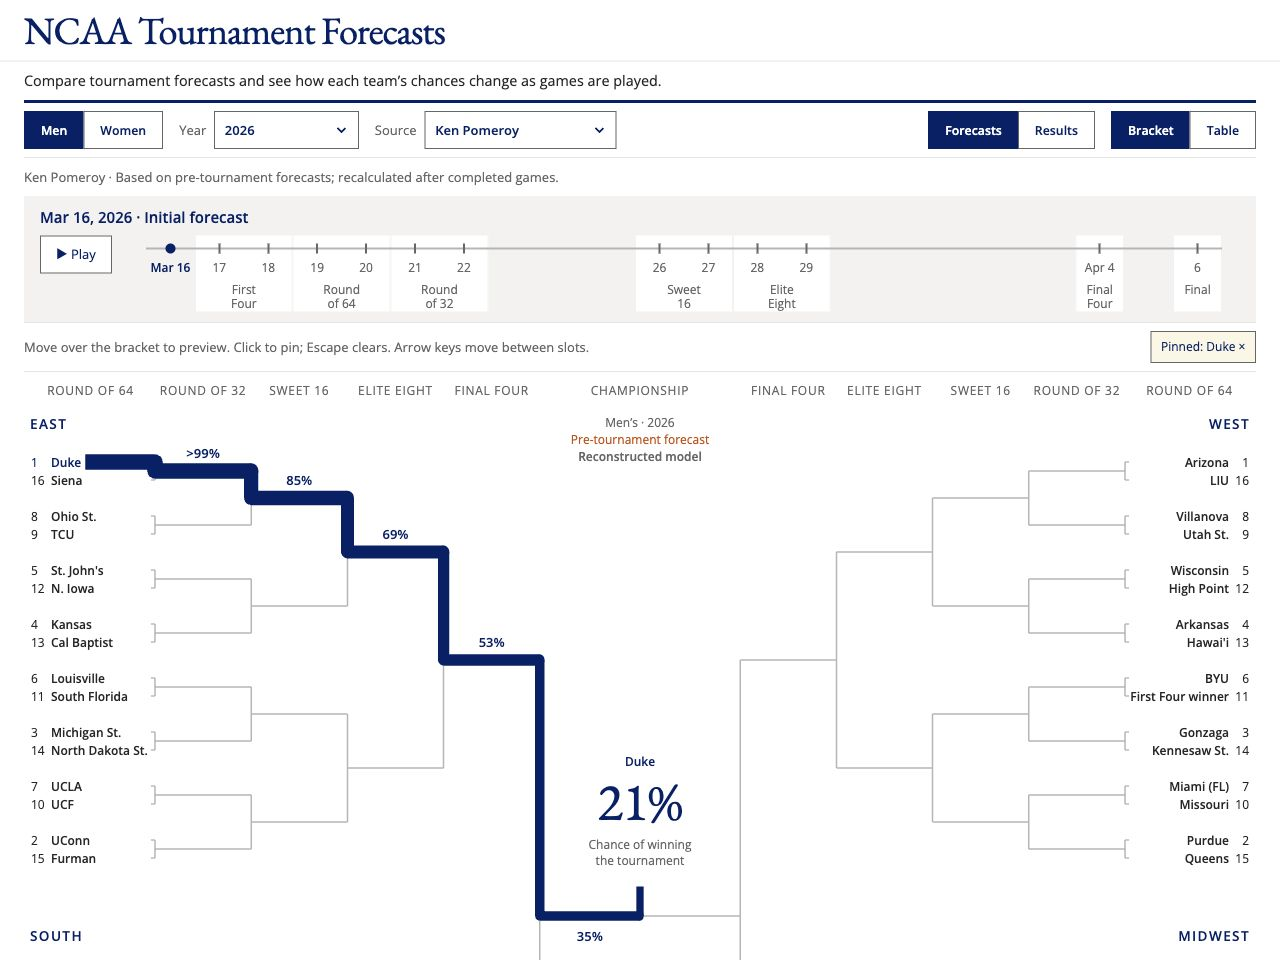
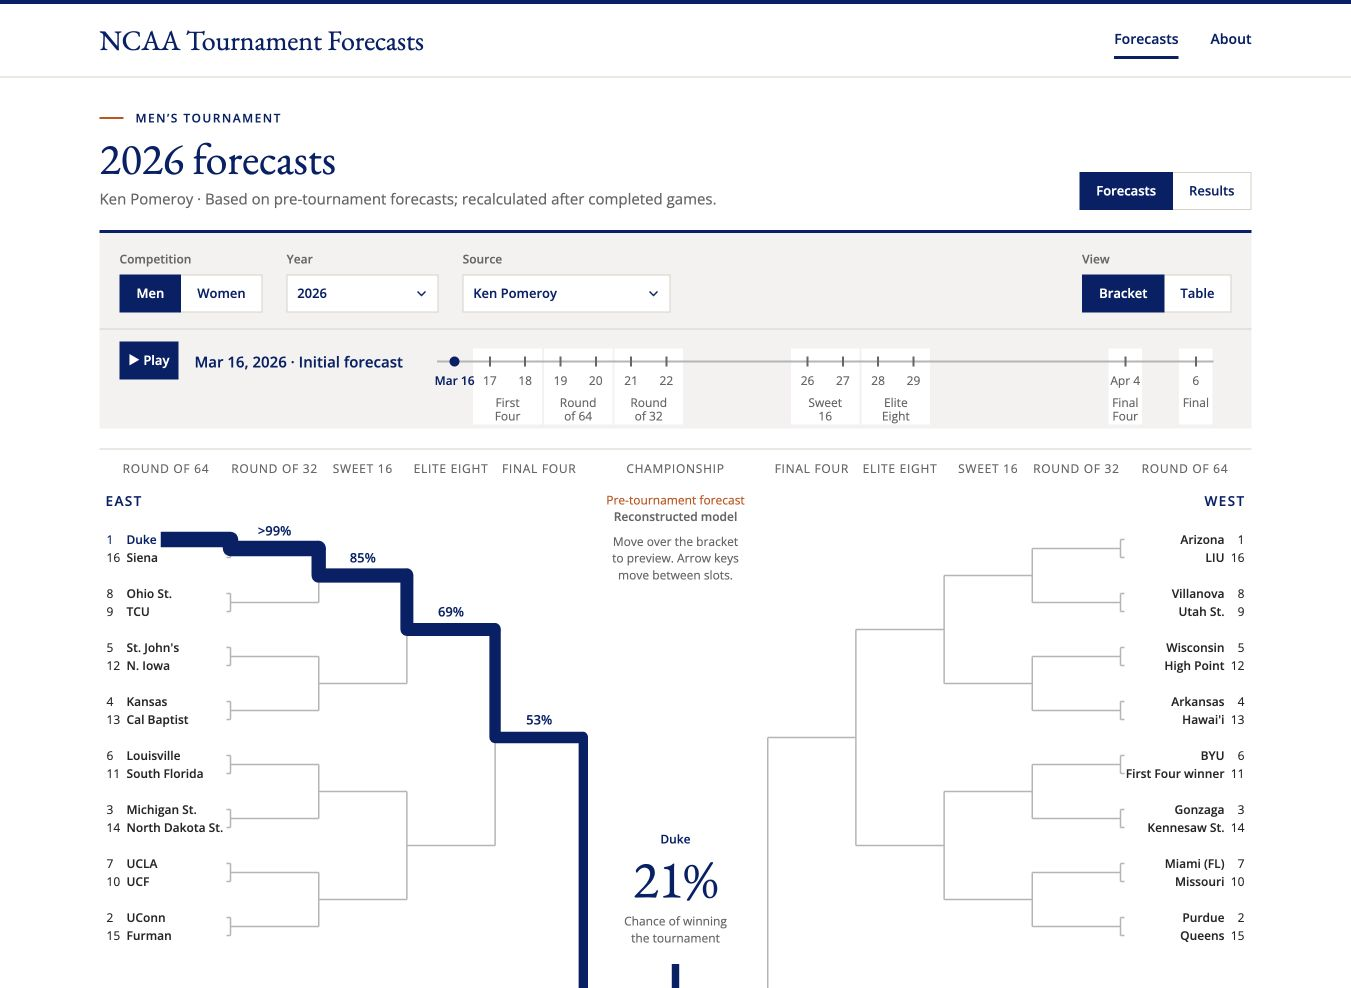
Refresh gallery preview and builder links

diff --git a/site/style.css b/site/style.css
@@ -62,6 +62,7 @@ img { display: block; max-width: 100%; height: auto; }
 .hero-eyebrow, .kicker, .section-head .kicker { display: flex; align-items: center; gap: 0.75rem; font: 600 0.75rem/1.4 var(--sans); letter-spacing: 0.12em; text-transform: uppercase; }
 .hero-eyebrow::before, .kicker::before { content: ""; flex: none; width: 1.5rem; height: 2px; background: currentColor; }
 .hero-eyebrow { color: var(--dandelion); }
+.app-platform .hero .hero-eyebrow { font-size: 1rem; }
 .kicker, .section-head .kicker { margin-bottom: 0.75rem; color: var(--navy); }
 .kicker::before { background: var(--copper); }
 .hero-search { display: flex; max-width: 34rem; margin-top: 2.25rem; }

diff --git a/site/apps.html b/site/apps.html
@@ -23,7 +23,7 @@
             <svg class="icon" viewBox="0 0 24 24" aria-hidden="true"><rect x="3" y="5" width="18" height="16" rx="1.5"/><path d="M3 10h18M8 3v4M16 3v4"/></svg>
             <h3>Build an app of your own</h3>
             <p>Start with a problem you understand. The course guides you through planning, building, testing and publication.</p>
-            <a class="text-link" href="${base}#process">See the process</a>
+            <a class="text-link" href="${base}build/">Get the plugin</a>
           </div>
         </div>
         <p class="empty" hidden>No apps match. <button type="button" class="link-button" data-clear>Clear the search</button></p>

diff --git a/scripts/build.py b/scripts/build.py
@@ -519,6 +519,20 @@ def build(root=ROOT, base=None):
                       for c, label, n in chips),
         cards='\n        '.join(card(p, base, f' data-category="{escape(p["ui"]["category"])}" data-search="{searchable(p)}"') for p in plugins)),
         config['url'] + 'plugins/'))
+    # Keep the published builder URL useful after the plugin rename.
+    redirect = dist / 'plugins/browser-app-builder/index.html'
+    redirect.parent.mkdir(parents=True)
+    redirect.write_text(f'''<!doctype html>
+<html lang="en">
+<meta charset="utf-8">
+<meta name="viewport" content="width=device-width, initial-scale=1">
+<title>Web Application Builder</title>
+<link rel="canonical" href="{config['url']}plugins/web-application-builder/">
+<meta http-equiv="refresh" content="0; url={base}plugins/web-application-builder/">
+<p><a href="{base}plugins/web-application-builder/">Continue to Web Application Builder</a></p>
+</html>
+''', encoding='utf-8')
+    pages.append(redirect)
     validate(dist, base, pages + [dist / 'style.css'])
     print(f'Built {len(plugins)} listing(s) and catalogs for Claude and Codex/ChatGPT.')
 

diff --git a/scripts/check.py b/scripts/check.py
@@ -80,6 +80,9 @@ with tempfile.TemporaryDirectory() as temporary, redirect_stdout(io.StringIO()):
     escaped = (root / 'dist/apps/index.html').read_text()
     assert '&lt;App &amp; example&gt;' in escaped and '&lt;script&gt;unsafe&lt;/script&gt;' in escaped
     assert '/alternate/apps/' in escaped and '/alternate/plugin-platform/' not in escaped
+    redirect = (root / 'dist/plugins/browser-app-builder/index.html').read_text()
+    assert 'content="0; url=/alternate/plugins/web-application-builder/"' in redirect
+    assert '/alternate/plugins/web-application-builder/' in Page(redirect).urls
     app_registry.write_text(app_records)
     inventory = root / BUILDER / 'references/libraries.json'
     saved_inventory = inventory.read_text()
